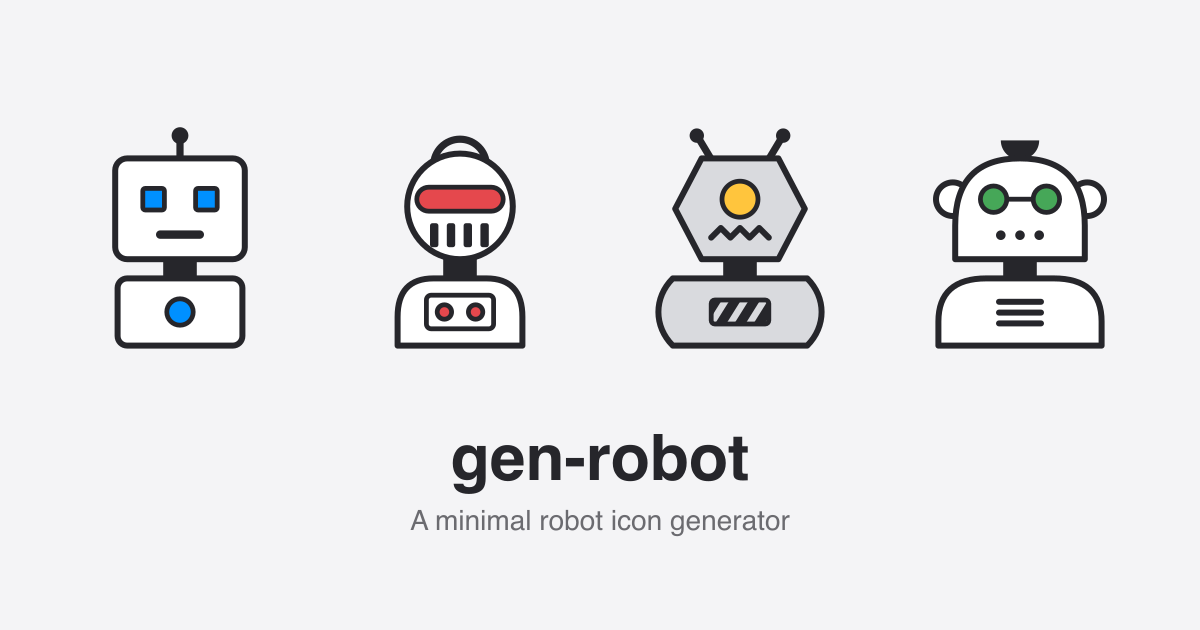
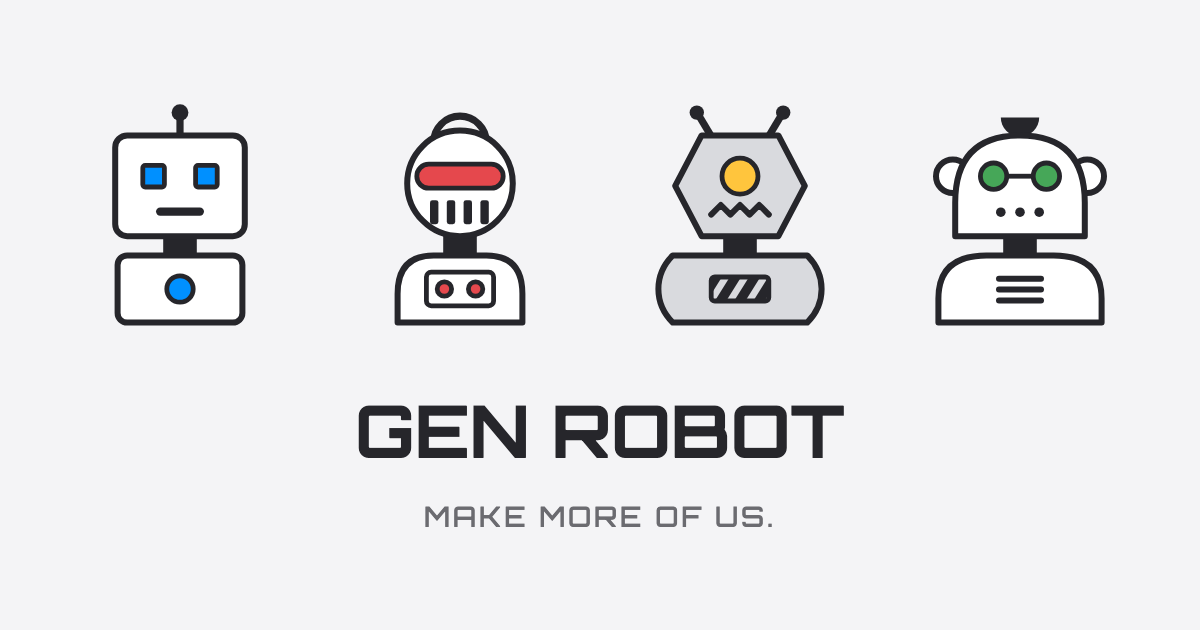
feat: add tagline and rebrand title as GEN ROBOT with Orbitron font

diff --git a/src/App.vue b/src/App.vue
@@ -112,7 +112,10 @@ function savePng() {
 
 <template>
   <main class="app">
-    <h1 class="title">gen-robot</h1>
+    <div class="header">
+      <h1 class="title">GEN ROBOT</h1>
+      <p class="tagline">MAKE MORE OF US.</p>
+    </div>
     <div class="layout">
       <RobotPreview :config="config" />
       <div class="controls">
@@ -172,12 +175,29 @@ function savePng() {
   display: flex;
   flex-direction: column;
   gap: 1.5rem;
+  font-family: -apple-system, 'Segoe UI', Roboto, Helvetica, Arial, sans-serif;
+}
+
+.header {
+  display: flex;
+  flex-direction: column;
+  gap: 0.25rem;
 }
 
 .title {
-  font-size: 1.25rem;
-  font-weight: 600;
+  font-family: 'Orbitron', sans-serif;
+  font-size: 1.375rem;
+  font-weight: 700;
   margin: 0;
+}
+
+.tagline {
+  margin: 0;
+  font-family: 'Orbitron', sans-serif;
+  font-size: 0.75rem;
+  font-weight: 500;
+  letter-spacing: 0.1em;
+  color: #6b6b70;
 }
 
 .layout {

diff --git a/index.html b/index.html
@@ -5,8 +5,11 @@
     <link rel="icon" href="/favicon.ico">
     <meta name="viewport" content="width=device-width, initial-scale=1.0">
     <title>gen-robot</title>
+    <link rel="preconnect" href="https://fonts.googleapis.com">
+    <link rel="preconnect" href="https://fonts.gstatic.com" crossorigin>
+    <link href="https://fonts.googleapis.com/css2?family=Orbitron:wght@500;700&display=swap" rel="stylesheet">
     <meta name="description" content="A minimal robot icon generator. Compose a robot from flat geometric parts and export it as SVG or PNG.">
-    <meta property="og:title" content="gen-robot">
+    <meta property="og:title" content="GEN ROBOT">
     <meta property="og:description" content="A minimal robot icon generator. Compose a robot from flat geometric parts and export it as SVG or PNG.">
     <meta property="og:type" content="website">
     <meta property="og:url" content="https://gen-robot.vercel.app/">